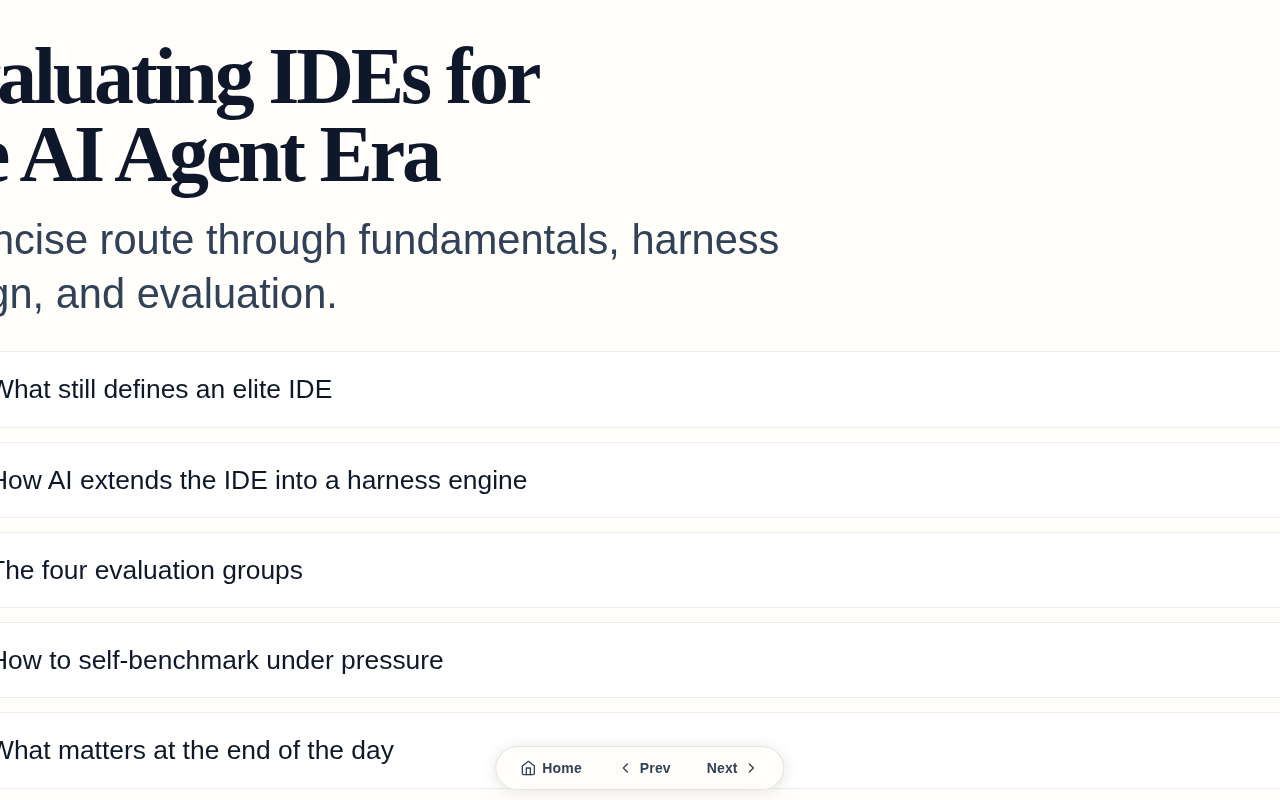
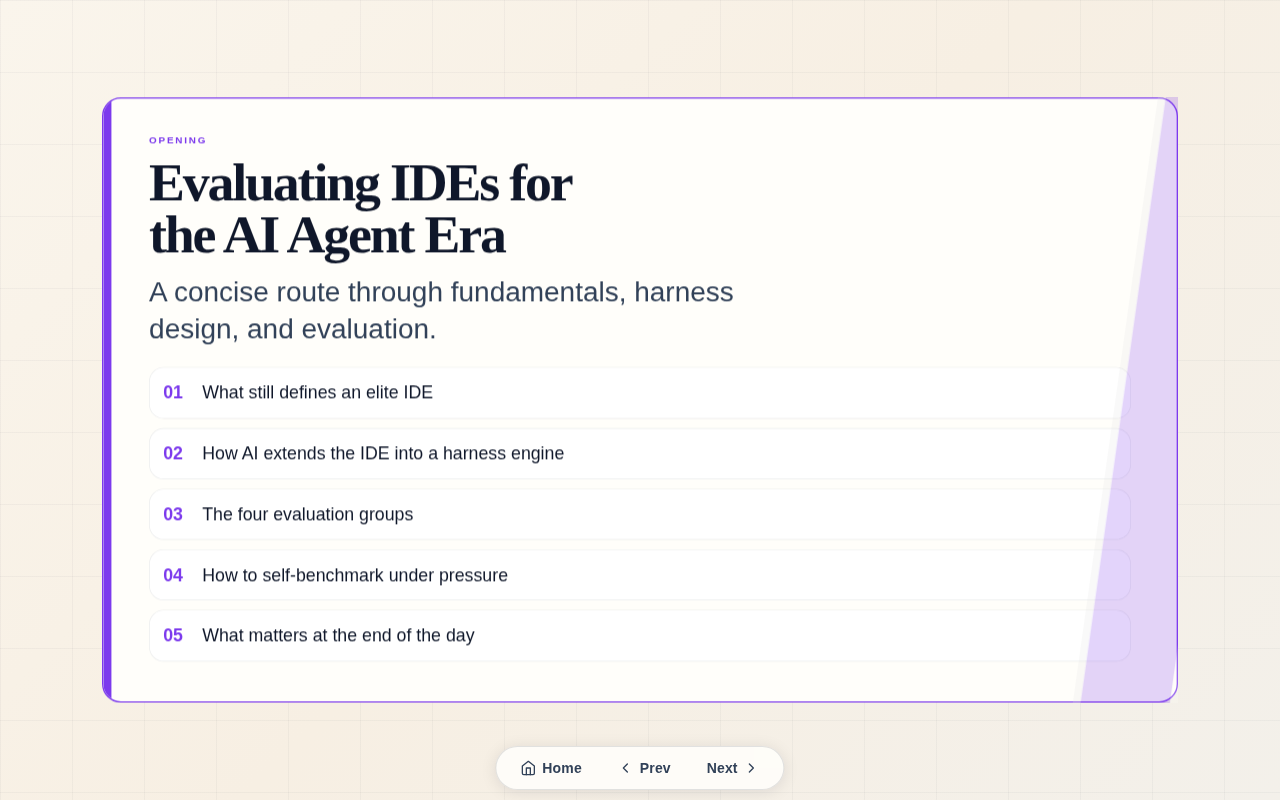
fix: restore responsive layout for markpress build across all screen sizes (#6)
* Initial plan

* fix: restore mobile responsiveness and fix minor issues in markpress build

- Fix require path: use require('markpress') instead of require('./node_modules/markpress')
- Fix typo: 'Extended Feaures Example' → 'Extended Features Example' in presentation.md
- Add mobile responsive CSS (≤900px and ≤700px) to fix viewport clipping:
  - Reduce .bullet-item/.numbered-item font-size and padding on tablets/phones
  - Remove min-height constraint at ≤700px so content determines step height
  - Reduce .lead, .slide-title, .summary, .note sizes at ≤700px
  - Reduces step height from 1183px → 487px at 390×844, eliminating 169px clipping

Agent-Logs-Url: https://github.com/vanduc2514/presentation-agent-harness/sessions/c0796bfa-47aa-47e4-abd8-a7e255ba351e

* fix: add responsive breakpoints for laptop and tablet viewports

- Add @media (max-width: 1600px): set .step { width: 100vw } — eliminates
  the horizontal clipping caused by impress.js returning windowScale=1 while
  the step canvas stays at 1600px (80px clipped at 1440px, 288px at 1024px)
- Add @media (max-width: 1366px): remove min-height, reduce font sizes (title
  4rem, lead 2rem, bullets 1.35rem) and padding so slides fit common 768px
  laptop heights; set step-split-layout height:auto
- Add @media (max-width: 1024px): further scale fonts for tablet landscape
  (title 3.2rem, lead 1.65rem, bullets 1.2rem) and collapse grids to 1 column
[…]

diff --git a/styles.css b/styles.css
@@ -59,9 +59,12 @@ body {
   display: block;
 }
 
+#impress-scaler {
+  transform-origin: top left;
+}
+
 #impress {
   position: absolute;
-  inset: 0;
 }
 
 .step {
@@ -572,6 +575,44 @@ body {
     font-size: 1.2rem;
   }
 
+  .summary,
+  .note {
+    font-size: 1.1rem;
+    margin-top: 10px;
+  }
+
+  .takeaway {
+    font-size: 1.2rem;
+  }
+
+  .bullet-list,
+  .numbered-list {
+    gap: 10px;
+    margin-top: 20px;
+  }
+
+  .bullet-item,
+  .numbered-item {
+    font-size: 1.1rem;
+    padding: 12px 14px;
+    gap: 10px;
+  }
+
+  .info-card h3,
+  .stack-card .stack-label,
+  .column-card h3,
+  .nav-card strong {
+    font-size: 1.2rem;
+  }
+
+  .info-card p,
+  .stack-card p,
+  .column-card li,
+  .timeline-step p,
+  .nav-card span {
+    font-size: 1.1rem;
+  }
+
   .grid-panel,
   .nav-grid,
   .dual-columns,
@@ -581,6 +622,39 @@ body {
 }
 
 @media (max-width: 700px) {
+  .step-shell {
+    min-height: 0;
+    padding: 24px 20px;
+  }
+
+  .slide-title {
+    font-size: 2rem;
+  }
+
+  .lead {
+    font-size: 0.95rem;
+    margin-top: 12px;
+  }
+
+  .summary,
+  .note {
+    font-size: 0.9rem;
+    margin-top: 8px;
+  }
+
+  .bullet-list,
+  .numbered-list {
+    gap: 8px;
+    margin-top: 14px;
+  }
+
+  .bullet-item,
+  .numbered-item {
+    font-size: 0.95rem;
+    padding: 8px 10px;
+    gap: 8px;
+  }
+
   .step-split-layout {
     grid-template-columns: 1fr;
     height: auto;

diff --git a/slides/presentation.md b/slides/presentation.md
@@ -195,7 +195,7 @@ The strongest harnesses extend beyond the editor into workflow orchestration.
 
 <p class="eyebrow">Group D · Extended Features</p>
 
-# Extended Feaures Example
+# Extended Features Example
 
 A hands-on walk-through of translating intent into requirements and implementation.
 
